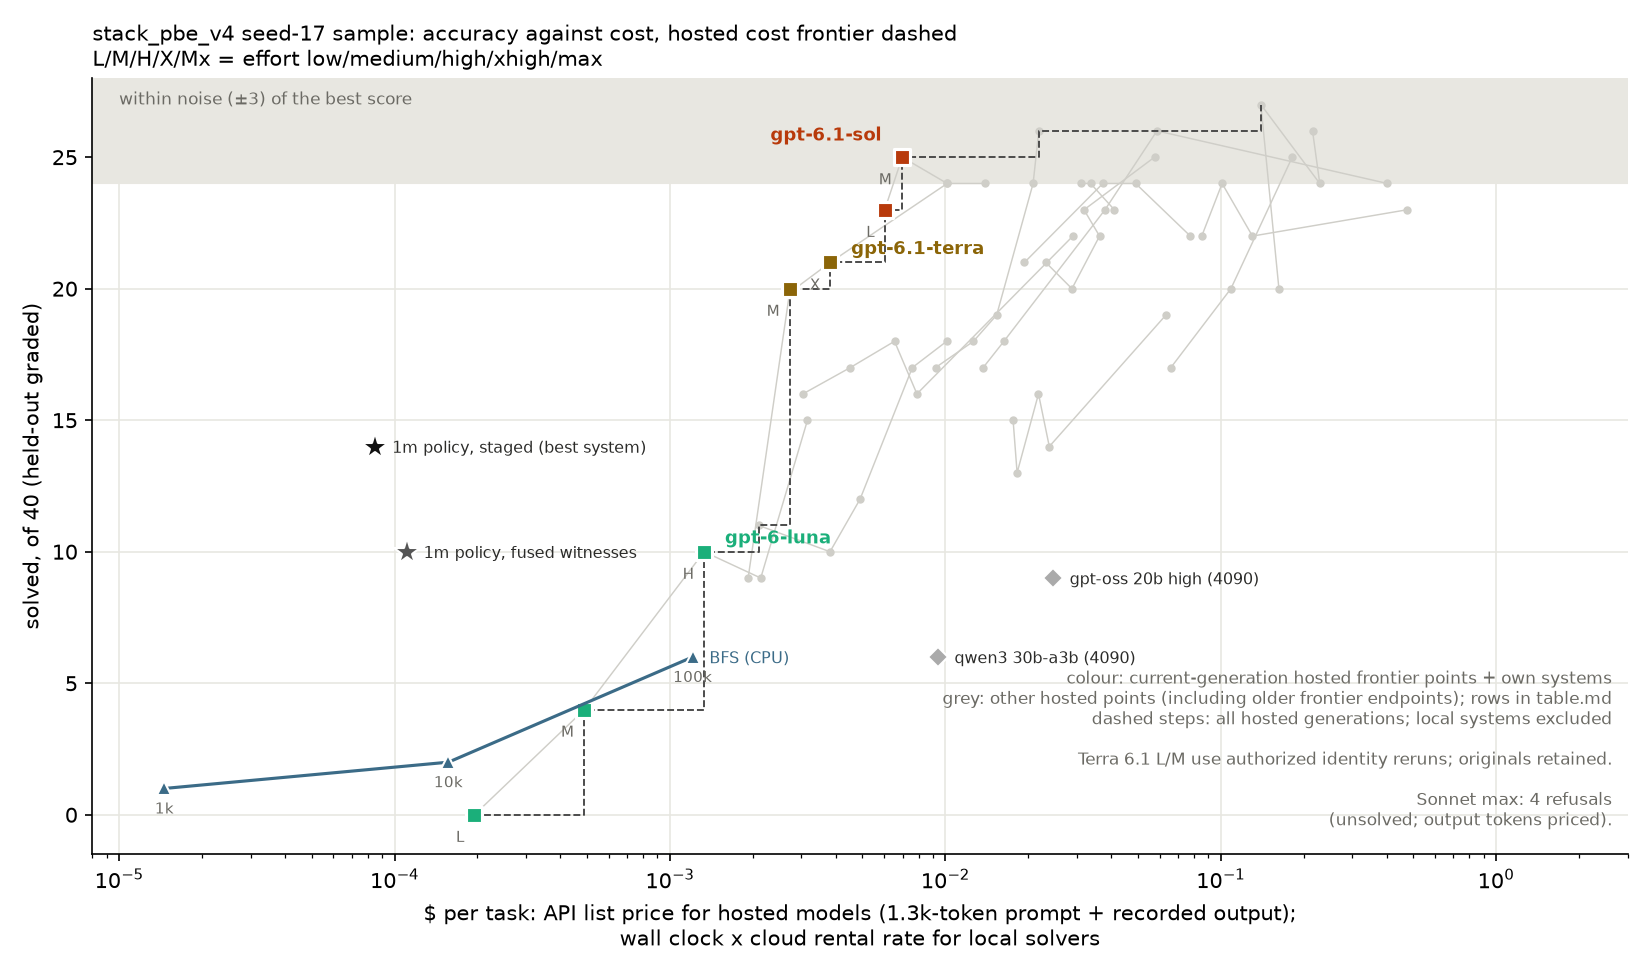
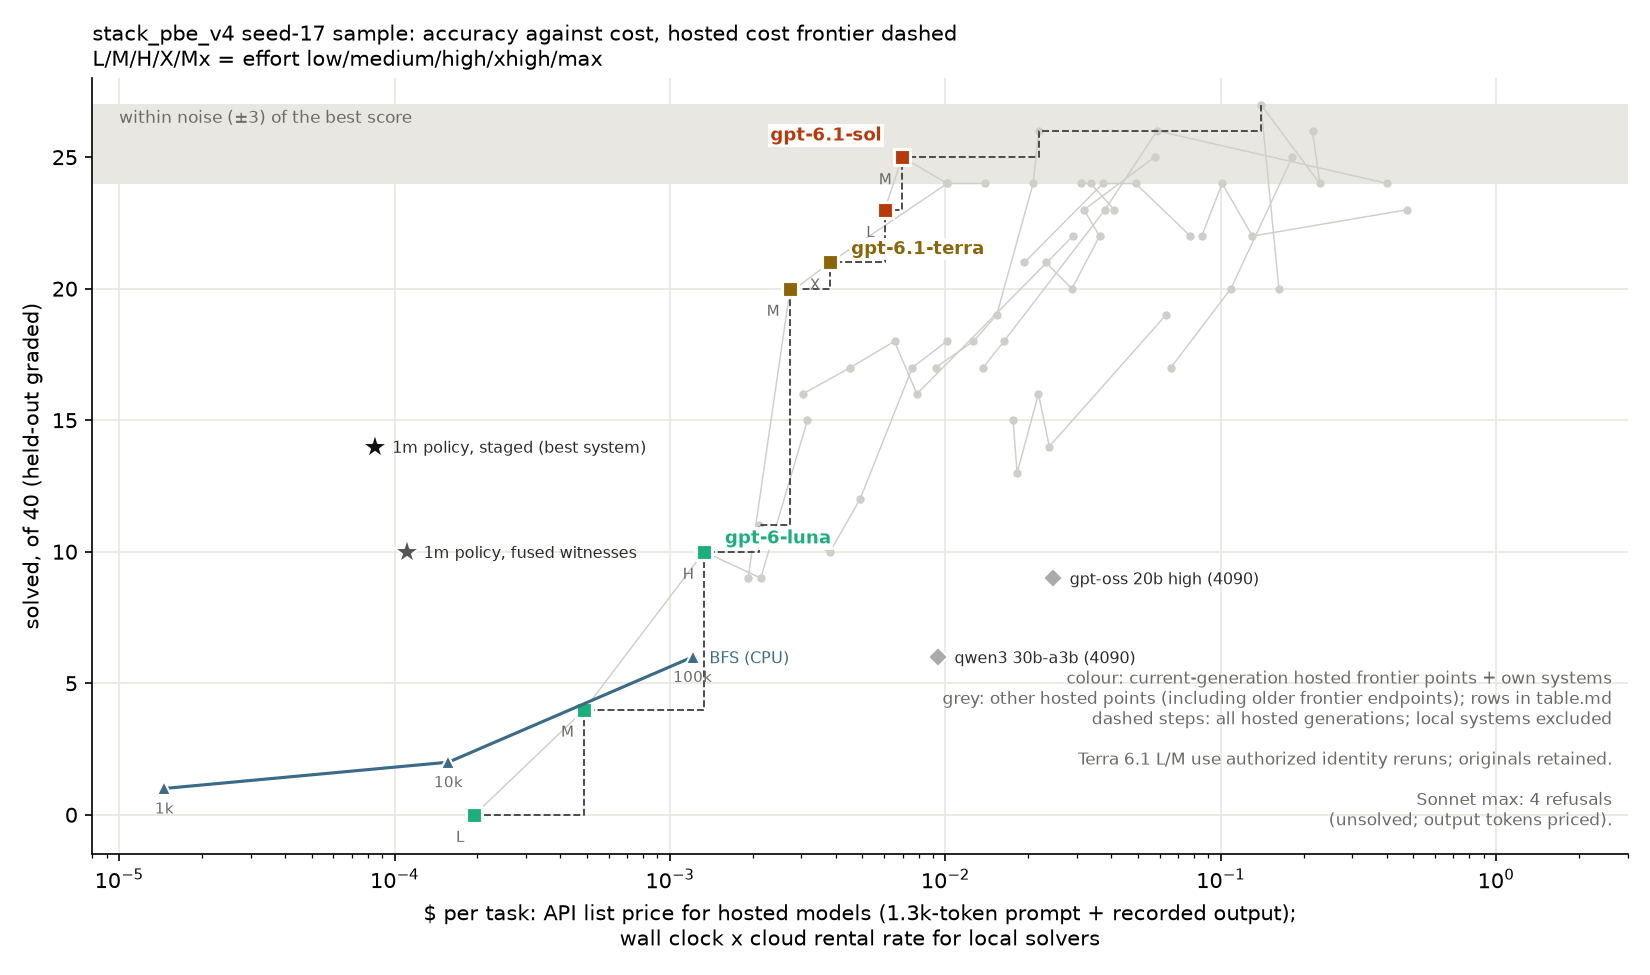
Highlight measured hosted cost frontier and clarify noise band

Changed region(s): [[0.0618, 0.0615, 0.9891, 0.1538]]

diff --git a/reports/stack-pbe-v4-effort-sweep-20260927/plot.py b/reports/stack-pbe-v4-effort-sweep-20260927/plot.py
@@ -51,10 +51,10 @@ frontier_keys = {(r["model"], r["effort"]) for r in frontier}
 step_points = sorted({(r["cost_per_task"], r["solved"]) for r in frontier})
 best_score = max(r["solved"] for r in rows)
 fig, ax = plt.subplots(figsize=(11, 6.5), dpi=150)
-ax.axhspan(best_score - 3, best_score + 3, color="#e8e7e1", zorder=0)
+ax.axhspan(best_score - 3, best_score, color="#e8e7e1", zorder=0)
 ax.text(
     1e-5,
-    best_score + 0.5,
+    best_score - 0.2,
     "within noise (±3) of the best score",
     color="#6b6a64",
     fontsize=8,
@@ -114,6 +114,8 @@ for model, colour, new in ORDER:
         fontsize=8.5,
         fontweight="bold",
         color=colour,
+        bbox={"facecolor": "white", "edgecolor": "none", "alpha": 0.95, "pad": 1},
+        zorder=5,
     )
 # Local solvers (local/local_rows.json): $ from wall clock at cloud rental rates
 # (c7i vCPU-hour for CPU, $0.40/h for an RTX 4090), not API list prices.

diff --git a/reports/stack-pbe-v4-effort-sweep-20260927/README.md b/reports/stack-pbe-v4-effort-sweep-20260927/README.md
@@ -4,7 +4,7 @@ Extends new-models-sample40 (#173) with gpt-5.6-sol (all efforts), gpt-5.6-terra
 
 ![accuracy vs cost](accuracy_vs_cost.png)
 
-**Reading the plot.** Colour marks only current-generation hosted points on the measured cost/score Pareto frontier; other hosted points, including every older generation, are grey. Frontier membership is computed from `summary.json`: no other hosted row may cost no more and solve at least as many, with one strict improvement. Thin dashed steps show the best score achievable at each cost across **all** hosted generations, including grey older frontier endpoints. Thin grey lines join efforts within a model. The 1m policy stars and BFS retain distinct styling; local solvers do not enter the hosted frontier. All hosted rows remain in `table.md`. The band is recomputed as within three solves of the best measured hosted score (currently 24–27/40); this is a comparison convention, not a confidence interval. As future sweeps change the frontier, eligible points recolour automatically.
+**Reading the plot.** Colour marks only current-generation hosted points on the measured cost/score Pareto frontier; other hosted points, including every older generation, are grey. Frontier membership is computed from `summary.json`: no other hosted row may cost no more and solve at least as many, with one strict improvement. Thin dashed steps connect the frontier points across **all** hosted generations, including grey older endpoints; between those costs they show the best score achievable within budget. Thin grey lines join efforts within a model. The 1m policy stars and BFS retain distinct styling; local solvers do not enter the hosted frontier. All hosted rows remain in `table.md`. The band is recomputed as within three solves of the best measured hosted score (currently 24–27/40); this is a comparison convention, not a confidence interval. As future sweeps change the frontier, eligible points recolour automatically.
 
 Updated 2026-09-29 with [Sonnet 5.5 at five efforts](../stack-pbe-v4-sonnet55-20260928/README.md), under the same protocol and cost estimate ($2/$10 per million input/output tokens). Max includes four refusals, scored as unsolved with their output tokens priced. The table's tool/turn column is a CLI turn/permission proxy for Claude; max reports eight on those refusal calls, with tools disabled in the command.
 
